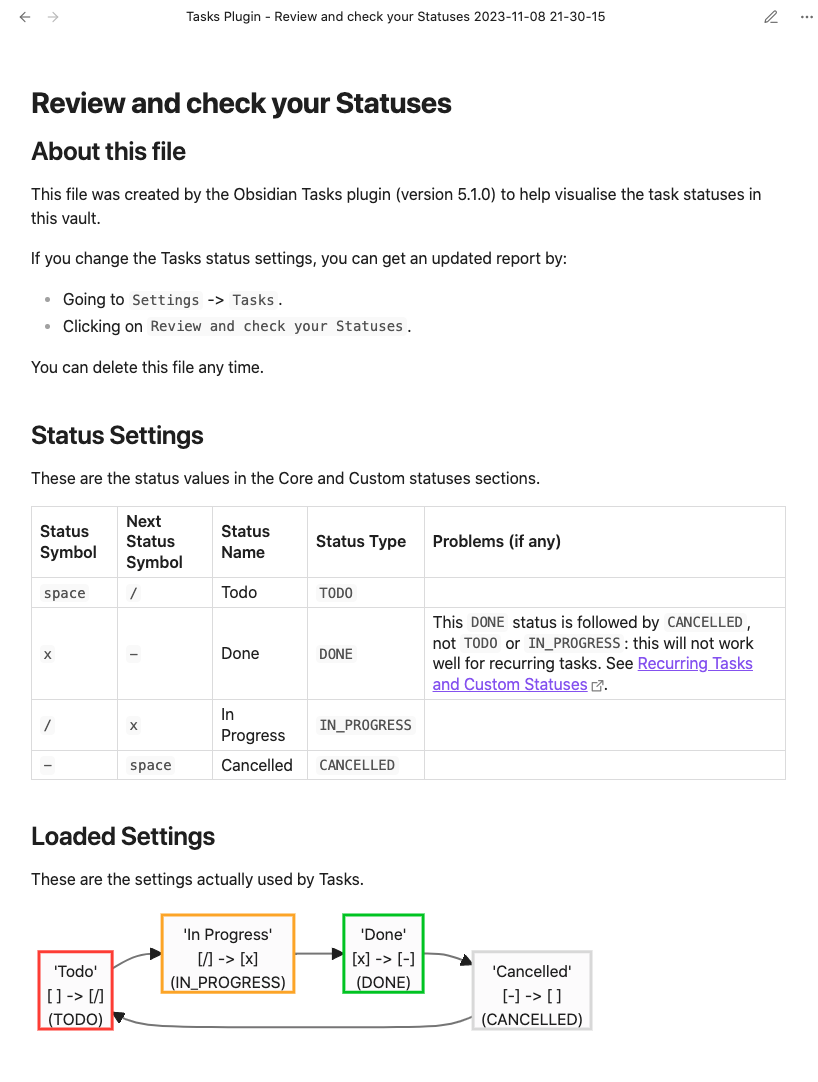
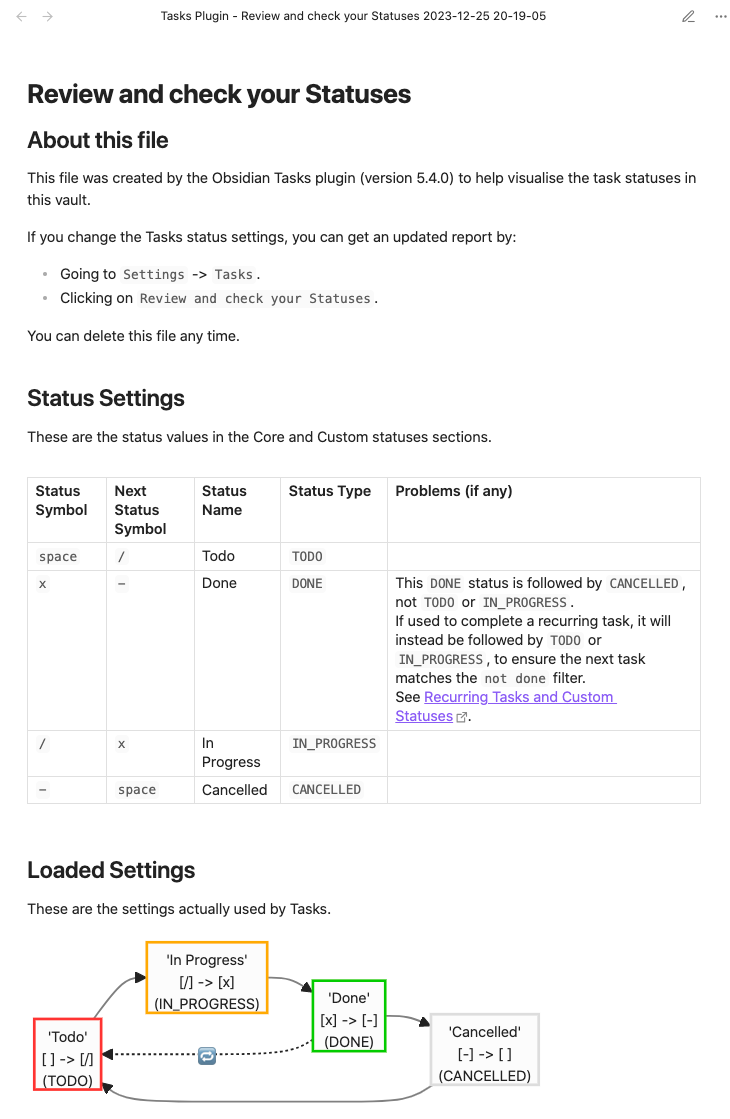
docs: Updates for recent fixes of statuses with recurrence (#2534)
* docs: Update 'Recurring Tasks and Custom Statuses' for new status rules

* docs: Update screenshot 'Check your Statuses' for new diagram

I hand-edited the version number to 5.4.0 in the report.

diff --git a/docs/Getting Started/Statuses/Recurring Tasks and Custom Statuses.md b/docs/Getting Started/Statuses/Recurring Tasks and Custom Statuses.md
@@ -18,7 +18,8 @@ When you click on the checkbox of a task, the Tasks plugin applies the following
 1. When a task line checkbox is clicked, the next status symbol is looked up in the user's Task plugin's [[Status Settings]].
 2. If the next status symbol is of type `DONE`:
     - A [[Dates#Done date|Done date]] is added (if enabled in user settings).
-    - If the task line has a Recurrence rule, an new task is created, with the next status symbol after the `DONE` symbol.
+    - If the task line has a Recurrence rule, a new task is created, with the next status symbol after the `DONE` symbol.
+    - If that next status is neither `TODO` nor `IN_PROGRESS`, a different status is chosen. See [[#When DONE is not followed by TODO or IN_PROGRESS]] below.
 
 > [!Important]
 > Every time Tasks detects you clicked on a task checkbox, the plugin reads the current status symbol - inside the `[` and `]` - and looks it up in your Tasks status settings, to determine what the next status symbol will be.
@@ -131,6 +132,7 @@ classDef NON_TASK    stroke:#99e,stroke-width:3px;
 4["'Cancelled'<br>[-] -> [ ]<br>(CANCELLED)"]:::CANCELLED
 1 --> 3
 2 --> 4
+2-. "🔁" .-> 1
 3 --> 2
 4 --> 1
 
@@ -138,39 +140,35 @@ linkStyle default stroke:gray
 ```
 <!-- endInclude -->
 
-This means that new recurrence of any completed recurring tasks will always be `CANCELLED`.
-
-For example, when the following task is toggled:
-
-```text
-- [/] Do something 🔁 every day 📅 2024-10-16
-```
-
-... it will become ...
-
-```text
-- [x] Do something 🔁 every day 📅 2024-10-16 ✅ 2023-10-16
-- [-] Do something 🔁 every day 📅 2024-10-17
-```
-
-Note that the new task has `CANCELLED` status, so will not typically show up in standard Tasks searches.
-
-> [!Tip]
-> Currently, if you plan to use recurring tasks, you should always ensure that any statuses of type `DONE` are always followed by statuses of type `TODO`.
+> [!important] Status type for next recurrence: always `TODO` or `IN_PROGRESS`
+> When toggling a recurring task creates the next recurrence, it only makes sense for the new task to be `TODO` or `IN_PROGRESS`, so that the new task is found by `not done` searches.)
 >
-> You can [[Check your Statuses]] for any statuses that do not follow this guideline.
+> The dashed arrow with "recurring" emoji in the above diagram indicates that Tasks will skip the `Cancelled` status for new recurrences, and jump to `Todo`.
 
-> [!Note]
-> When [[Custom Statuses]] were introduced, and we had to figure out how integrate them with recurring tasks, we expected that users would always following `DONE` with `TODO`.
+This means that even though the new recurrence of any completed recurring tasks looks like it will always be `CANCELLED`, tasks will look at the other statuses in the loop and:
+
+1. It will follow the arrows, and select the first `TODO` status it finds.
+2. If there wasn't a `TODO` found, it will follow the arrows again, and select the first `IN_PROGRESS` status it finds.
+3. If that fails too, it will just select the status symbol `space` .
+
+> [!example]
+> For example, when the following task is toggled, in a vault with the status settings in the diagram above:
 >
-> It turns out that (at least) two users have opted to follow `DONE` with `CANCELLED`, with recurring tasks.
+> ```text
+> - [/] Do something 🔁 every day 📅 2024-10-16
+> ```
 >
-> At some point we may adjust the Recurrence code so that:
+> ... it will become ...
 >
-> - instead of just taking the next status after the `DONE` task ...
-> - ... it will proceed through the statuses until it finds a `TODO` task.
+> ```text
+> - [x] Do something 🔁 every day 📅 2024-10-16 ✅ 2023-10-16
+> - [ ] Do something 🔁 every day 📅 2024-10-17
+> ```
 >
-> We are tracking this in [issue #2089](https://github.com/obsidian-tasks-group/obsidian-tasks/issues/2089) and [issue #2304](https://github.com/obsidian-tasks-group/obsidian-tasks/issues/2304).
+> Note that the new task has `TODO` status, so it will show up in standard Tasks searches.
+
+> [!released]
+> This improved selection of status for new recurrences was introduced in Tasks X.Y.Z.
 
 ## When the current status type is NON_TASK
 
